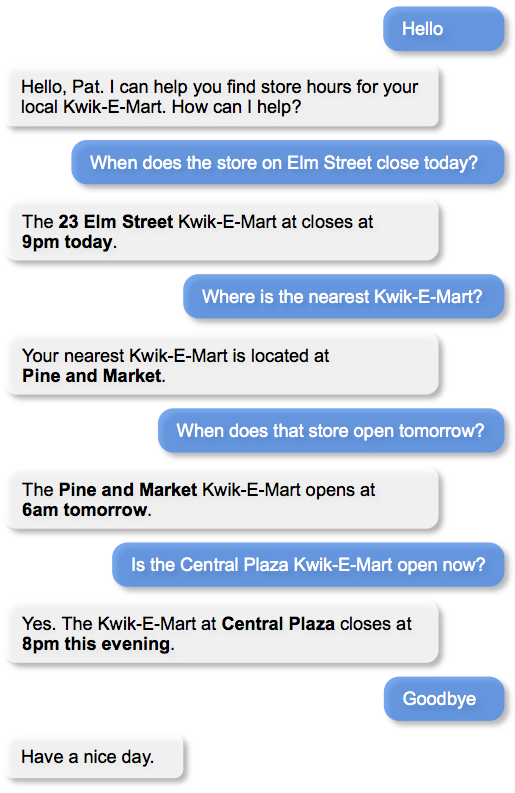
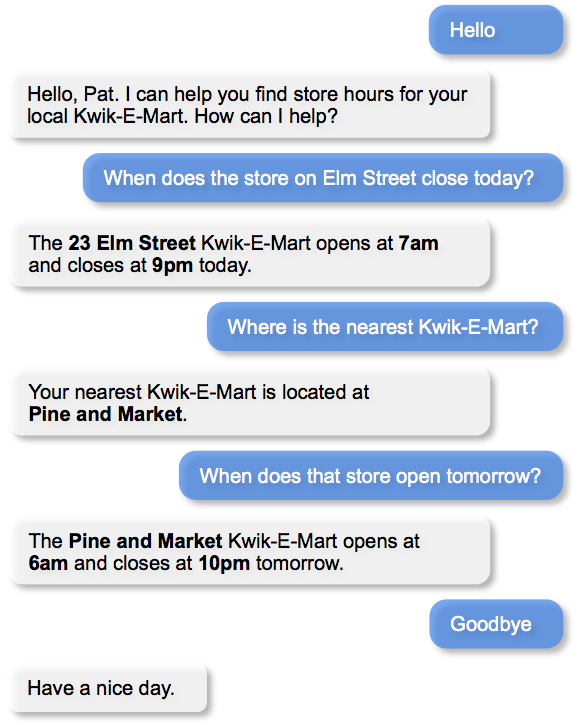
more quickstart additions

diff --git a/docs/source/quickstart.rst b/docs/source/quickstart.rst
@@ -48,7 +48,7 @@ Script Your Ideal Dialogue Interactions
 
 Once you have identified a good use case, the next step is to script your envisioned dialogue interactions. This design exercise details the conversational interaction flows which define the user experience for your application. It is important to think through not just the most obvious user flows, but also the corner case and exception user flows which may be encountered by users during an interaction. For example, the dialogue flows should illustrate how the application responds if the user request is beyond the application scope. Also, the flows should illustrate the interactions which will enable users to get help if they are stuck or gracefully leave the interaction. The dialogue flows should detail not only the various interaction pathways a conversation may traverse, but they should also illustrate the desired language and tone envisioned for the experience.
 
-For developers familiar with graphical interface design, this step is comparable to the task of creating wireframe and pixel-perfect mockups. Like any design step, there will likely be many iterations required to work through usability issues and reach consensus on a final design. It is always wise to begin coding and implementation only after the dust has settled on the scripted dialogue interactions. Otherwise, much implementation work and effort may be wasted. 
+For developers familiar with graphical interface design, this step is comparable to the task of creating wireframes and pixel-perfect mockups. Like any design step, there will likely be many iterations required to work through usability issues and reach consensus on a final design. It is always wise to begin coding and implementation only after the dust has settled on the scripted dialogue interactions. Otherwise, much implementation work and effort may be wasted. 
 
 For our simple use case, the following diagram illustrates the dialogue interactions we will strive to deliver in our final implementation.
 
@@ -60,13 +60,51 @@ For our simple use case, the following diagram illustrates the dialogue interact
 Define the Domain, Intent, Entity and Role Hierarchy
 -------------------------------------------------------
 
-Conversational applications rely on a hierarchy of machine learning classifiers in order to model and understand natural language. Often called the Natural Language Processor, this family of machine learning models sits at the core all conversational assistants in widespread production use today. While there are many different ways that machine learning techniques can be enlisted to dissect and understand human language, a set of best practices has been adopted in recent years to systematize the sometimes challenging task of building accurate and useful natural language processing systems. Today, nearly all commercial conversational applications rely on a hierarchy of machine learning models illustrated below.
+Conversational applications rely on a hierarchy of machine learning classifiers in order to model and understand natural language. More broadly defined as Natural Language Processing, this family of machine learning models sits at the core all conversational assistants in widespread production use today. While there are many different ways that machine learning techniques can be enlisted to dissect and understand human language, a set of best practices has been adopted in recent years to systematize the sometimes challenging task of building accurate and useful natural language processing systems. Today, nearly all commercial conversational applications rely on a hierarchy of machine learning models illustrated below.
 
 .. image:: images/hierarchy.png
     :width: 700px
     :align: center
 
 The topmost layer in the model hierarchy is the domain classifier. The domain classifier is responsible for performing a first-pass classification to group incoming queries into set of pre-defined buckets or 'domains'. For any given domain, there may be one or more pre-defined intents. Each intent defines a specific action or answer type to invoke for a given request. The intent classifier models are responsible for deciding which intent is most likely associated with a given request. Once the request is categorized into a specific intent, the entity recognition models are employed to discern the important words and phrases in each query that must be identified in order to understand and fulfill the request. These identified words and phrases are called 'entities', and each intent may have zero or more types of entities which must be recognized. For some types of entities, a fourth and final classification step, called role classification, may be required. The role classifiers are responsible for adding differentiating labels to entities of the same type. Refer to the User Guide for a more in-depth treatment of the natural language processing classifier hierarchy utilized by MindMeld Workbench. 
+
+For our simple conversational application which can help us find store information for our local Kwik-E-Mart, the natural language processing model hierarchy can be designed as illustrated below.
+
+.. image:: images/hierarchy2.png
+    :width: 700px
+    :align: center
+
+As illustrated, this rudimentary application has a single domain, 'store_info', which encompasses all of the functionality required to find information about Kwik-E-Mart retail stores. In addition, this domain supports five initial intents:
+
+   - ``greet`` Begins an interaction and welcomes the user.
+   - ``get_store_hours`` Returns the open and close time for the specified store.
+   - ``find_nearest_store`` Returns the closest store to the user.
+   - ``exit`` Ends the current interaction.
+   - ``help`` Provides help information in case the user gets stuck.
+
+.. note::
+
+  By convention, intent names should always be verbs which describe what the user is trying accomplish.
+
+In this basic example, only the ``get_store_hours`` intent requires entity classification. This intent supports the two defined entity types listed below.
+
+   - ``store_name`` The name of a specific retail store location.
+   - ``date`` The calendar date or day of the week.
+
+Neither of these two entity types will require role classification in this simple example.
+
+.. note::
+
+  By convention, entity names should always be nouns which describe the entity type.
+
+
+The design of the domain, intent, entity and role hierarchy for this example application is now complete. Based on this architecture, we would expect our trained natural language processing models to yield the following results for the user requests in the simple interaction proposed in the preceding section.
+
+.. image:: images/quickstart_parse_output.png
+    :width: 600px
+    :align: center
+
+
 
 
 Show the directory structure which captures this hierarchy for a simple example.
@@ -75,21 +113,6 @@ Developer creates a directory structure that implicitly defines the domain, inte
 
 Mention the concept of 'blueprints' (aka reference applications).
 
-
-For example,
-
- - ``store_information`` Defines the domain.
- 
-   - ``greet`` Begins an interaction.
-   - ``get_close_time`` Returns the close time for the requested store.
-   - ``get_open_time`` Returns the open time for the requested store.
-   - ``get_nearest_store`` Returns the closest store to the user.
-   - ``get_is_open_now`` Returns yes or no if the requested store is open now.
-   - ``exit`` Ends the current interaction.
-
-.. note::
-
-  By convention, intent names should always be verbs which describe what the user is trying accomplish.
 
 
 Directory structure::
@@ -112,15 +135,6 @@ Directory structure::
               exit/
                   labeled_queries/
 
-Entities:
-
- - When does the store on ``Elm Street | NAME`` close ``today | DATE``?
- - When does that store open ``tomorrow | DATE``?
- - Is the ``Central Plaza Kwik-E-Mart | NAME`` open now?
-
-.. note::
-
-  By convention, entity names should always be nouns which describe the entity type.
 
 
 
